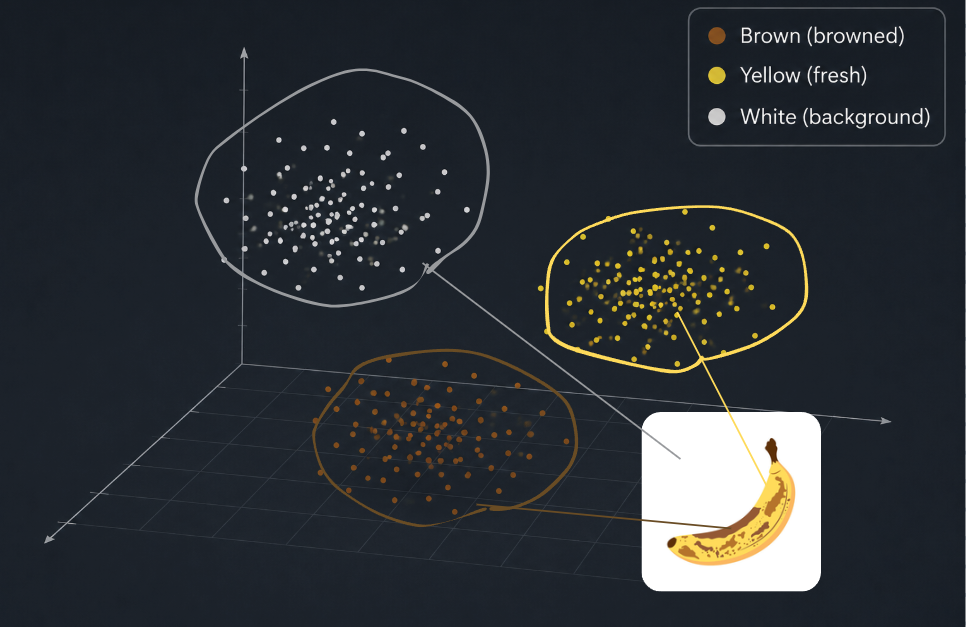
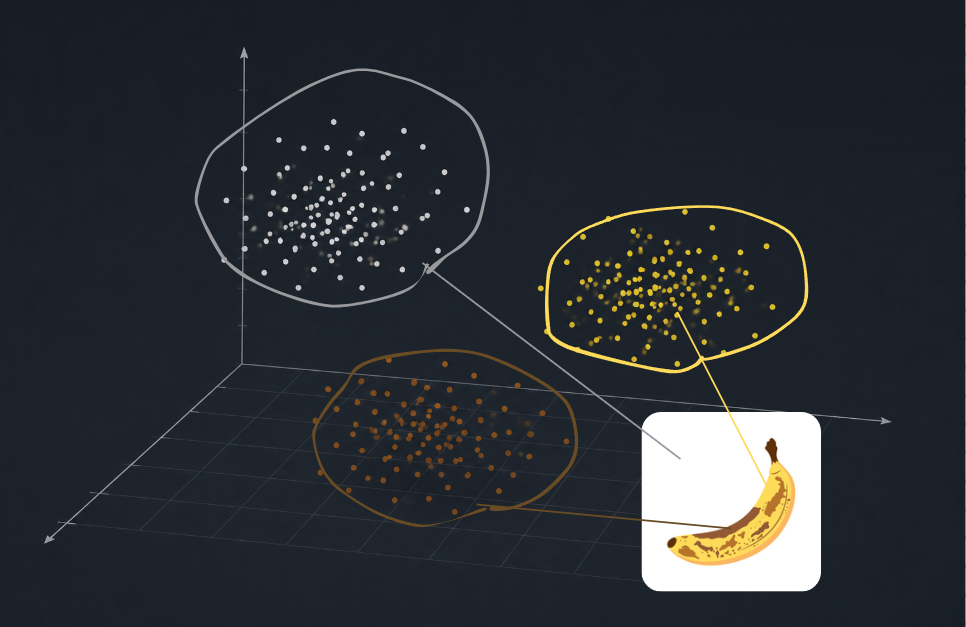
Paint the legend out of Fig. 7
Asked for directly. The box labelled the three clusters "White
(background)", "Yellow (fresh)" and "Brown (browned)". The clusters are
drawn in their own colours and connected to the banana by leader lines,
so the picture carries the concept without naming anything.

Done in the source PNG, not in CSS: the legend sat over plain ground in
the top-right with no plot content behind it. The ground is not flat, it
carries a gentle 2D gradient, so a flat fill would have shown as a patch.
The reconstruction fits a plane to every background pixel in the image,
then per row interpolates a correction between clean strips either side
of the box and adds grain matched to the measured background noise, sd
about 0.85. No seam at 1:1, checked. The file also came out 72KB smaller.

The alt text is rewritten with it, since it described the labels.

**This settles `wide` for that row.** The legend's small type was the only
argument ever made for a wide figure on this site, and there is no small
type left. Recorded in docs/adding-a-project.md, with the general form:
if a diagram's labels are the only reason to go wide, check first whether
the diagram needs the labels.

It also removes the discrepancy that prompted this. The figure asserted a
third class name that did not match the owner's account of the pipeline;
now it asserts none, and the summary still says "three reference colours"
rather than guessing.

Looked at 390 before shipping.

Rev 1.1.
[…]

Changed region(s): [[0.7143, 0.0, 0.9627, 0.2424]]

diff --git a/src/data/profile.ts b/src/data/profile.ts
@@ -31,7 +31,7 @@ import ubcRocketTeam from '../assets/ubc-rocket-team.jpg';
    follow-up commit of their own. A rev that lags the site is worse than
    no rev at all: the block is the one place the document dates itself. */
 export const REVISION = {
-	rev: '1.0',
+	rev: '1.1',
 	status: 'PRELIMINARY',
 	updated: '2026-09-04',
 };
@@ -678,12 +678,22 @@ export const PROJECTS: Project[] = [
 		],
 		titleHref: 'https://github.com/BentoOre0/ColorSegmentationAlgoPercentageCoverage',
 		figure: {
+			/* The legend was painted out of the source PNG at the owner's
+			   request: it labelled the three clusters "White (background)",
+			   "Yellow (fresh)" and "Brown (browned)", and the picture makes
+			   the point without it. The clusters are drawn in their own
+			   colours, so the naming was redundant, and the labels were the
+			   one part of this figure that went illegible when it shrank.
+
+			   That also settles `wide` for this row. The legend's small type
+			   was the only argument ever made for it; there is no small type
+			   left. */
 			caption:
 				'The three colour classes the algorithm separates, drawn as clusters in colour space.',
 			plates: [
 				{
 					still: colourClusters,
-					alt: 'A dark three-dimensional plot of a colour space holding three separated clusters of dots, each ringed by an outline: grey labelled white for background, yellow labelled fresh, and brown labelled browned. Leader lines run from the yellow and brown clusters to a photograph of a spotted banana in the corner.',
+					alt: 'A dark three-dimensional plot of a colour space holding three separated clusters of dots, each ringed by an outline in its own colour: one white, one yellow, one brown. Leader lines run from all three clusters to a photograph of a spotted banana in the corner.',
 				},
 			],
 			ratio: '966 / 627',

diff --git a/HANDOFF.md b/HANDOFF.md
@@ -345,6 +345,25 @@ for.
   the cluster nearest white as dish and background, report the ratio of the
   two left. Its stack gained computer vision and K-means clustering.
 
+**Fig. 7's legend is painted out of the source PNG.** It labelled the three
+clusters "White (background)", "Yellow (fresh)" and "Brown (browned)". Asked
+for directly: the clusters are drawn in their own colours and the picture
+carries the concept without naming them.
+
+Done in `src/assets/colour-clusters.png` itself, not in CSS: the box sat over
+plain ground in the top-right corner with no plot content behind it. The
+ground is not flat, it has a gentle 2D gradient, so a flat fill would have
+shown. The patch fits a plane to every background pixel in the image, then
+per row interpolates a correction between clean strips either side of the box
+and adds grain matched to the measured background noise, sd about 0.85. No
+seam at 1:1. The original is in git; the file also got 59KB smaller.
+
+**This settles `wide` for that row.** The legend's small type was the only
+argument ever made for a wide figure on this site, and there is no small type
+left. Recorded in `docs/adding-a-project.md`.
+
+The alt text was rewritten with it, since it described the labels.
+
 **The reference colours are deliberately not named in P7.** The owner's
 account of the pull step and the labels on the figure do not agree on the
 third colour, so "three reference colours" is what can be said without

diff --git a/docs/adding-a-project.md b/docs/adding-a-project.md
@@ -447,6 +447,12 @@ every other row keeps and leaves the right half of the row empty. It also made
 the largest figure on the page belong to P7. Before reaching for `wide`, ask
 whether the row deserves the width, not just whether the labels are small.
 
+**That figure later lost its legend too**, painted out of the source PNG
+because the clusters are drawn in their own colours and the naming was
+redundant. So the one argument ever made for `wide` on this site no longer
+has anything to point at. If a diagram's labels are the only reason to go
+wide, **check first whether the diagram needs the labels.**
+
 ### If you want a dummy photo and want to see the size
 
 Give it `spec` instead of `plates`:

diff --git a/docs/build-and-ship.md b/docs/build-and-ship.md
@@ -36,7 +36,7 @@ it moves with the site:
 
 ```ts
 export const REVISION = {
-	rev: '1.0',
+	rev: '1.1',
 	status: 'PRELIMINARY',
 	updated: '2026-09-04',
 };
